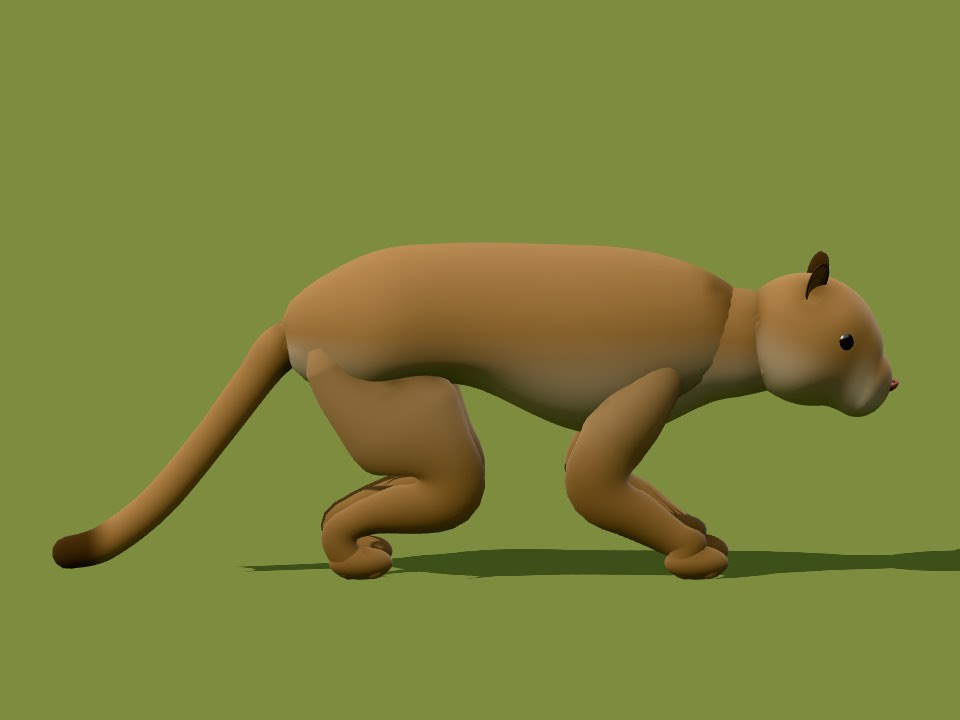
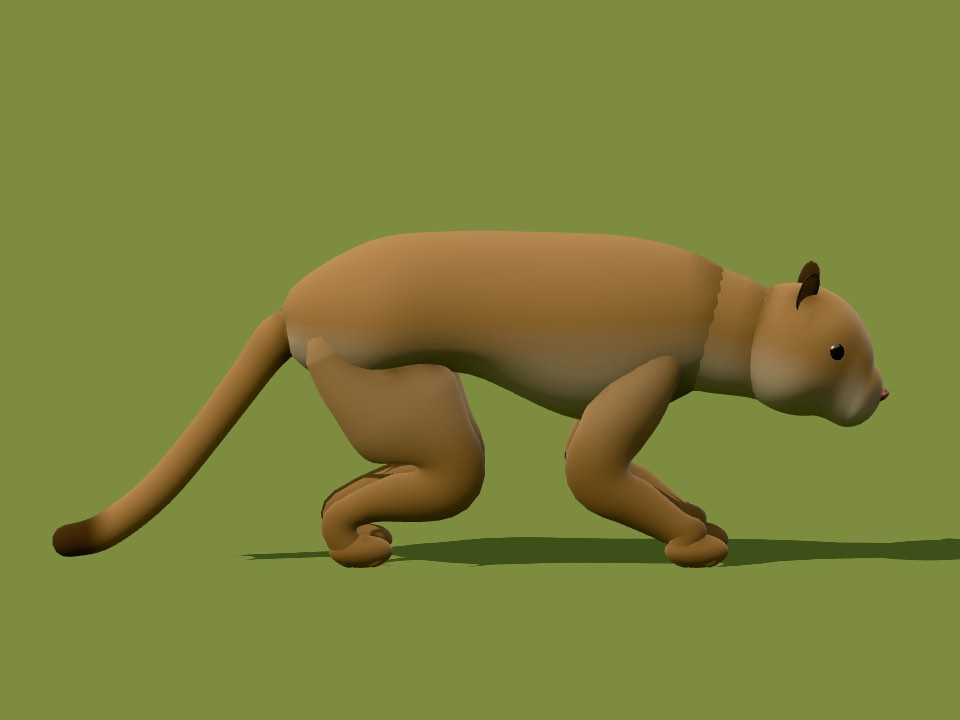
Cougar's original neck and head carriage back; when a head dips, the nod fades out behind its pivot so the neck's root stays in the shoulders (Cole)

diff --git a/js/render3d/animals/quadrupeds.js b/js/render3d/animals/quadrupeds.js
@@ -696,19 +696,12 @@ const MAMMALS = {
       legR1: H * (lion ? 0.085 : k ? 0.09 : s.cheetah ? 0.09 : plain ? 0.085 : 0.14), // (a plain cat's slim ankle under a full forearm and thigh)
       // (a plain cat: the hind thigh runs back into the rump, the legs taper to slim ankles over big paws)
       thighBack: plain ? H * 0.18 : 0, paw: plain ? 1.4 : 1, legSub: plain ? 8 : undefined, stifle: plain ? 0.72 : undefined, legSeg: plain ? 16 : undefined,
-      // (the round head's neck, from deep in the chest near where the head turns, so its top stays in the
-      // back when the head dips to stalk: deep and flattened side to side where it leaves the shoulders,
-      // narrowing up the throat, then widening into the back of the skull so the head sits on it, not a
-      // cylinder; [up, across] at each point. Cole 2026-11-27)
-      neckPath: plain && !fit ? [[L * 0.27, by + H * 0.02, 0], [L * 0.39, by + H * 0.17, 0], [L * 0.55 - H * 0.36 * 0.15, by + H * 0.26 - H * 0.33 * 0.15, 0]] : undefined,
-      neckRadii: plain && !fit ? [[H * 0.36, H * 0.27], [H * 0.27, H * 0.22], [H * 0.3, H * 0.27]] : undefined,
       neckR: H * (lion ? 0.25 : fit ? 0.23 : 0.3 - k * 0.02), jawDepth: fit ? 0.72 : undefined, skullUnder: fit ? 0.75 : undefined, // (a plain cat: a lean throat under a clean jaw) dots: s.cheetah ? [s.dark, 9, 0.2] : s.spotted ? [s.dark, 11, 0.21] : s.bobtail ? [shade(s.color, -0.4), 13, 0.16] : null, coatFine: s.bobtail ? false : undefined, rosettes: s.rosettes,
       coat, legColor, fine: s.clouds ? 2 : lion, detail: !!(lion || k || plain), legRings: legColor ? 8 : undefined,
       paws: true, toes: plain ? 4 : true, // soft, articulated paws
       // (a plain cat carries a slightly smaller head lower and a little further forward, the skull's top
       // about level with the back, as the photos show)
-      head: plain ? [L * 0.55, by + H * (fit ? 0.14 : 0.26)] : // (the round head carried higher, toward where the week-old one was: low, it hung below the shoulders as a hunch, Cole)
-         [L * 0.5, by + H * (lion ? 0.3 : 0.38 - k * 0.1)], headR: [H * (lion ? 0.34 : fit ? 0.33 : 0.36) * hs, H * (lion ? 0.31 : fit ? 0.3 : 0.33) * hs, H * (lion ? 0.32 : fit ? 0.24 : 0.34) * hs], snout: H * 0.15 * hs,
+      head: plain ? [L * 0.55, by + H * 0.14] :  [L * 0.5, by + H * (lion ? 0.3 : 0.38 - k * 0.1)], headR: [H * (lion ? 0.34 : fit ? 0.33 : 0.36) * hs, H * (lion ? 0.31 : fit ? 0.3 : 0.33) * hs, H * (lion ? 0.32 : fit ? 0.24 : 0.34) * hs], snout: H * 0.15 * hs,
       nose: lion || k || plain ? false : undefined, eyeR: lion ? H * 0.038 : plain ? H * 0.0525 : undefined, // (a plain cat's eyes a little bigger than the shared size, Cole 2026-11-27)
       // (crown: a cougar's skull is broad across the top with the ears at its corners; head on, the shared head was a pear)
       ears: lion ? 'none' : s.bobtail ? 'point' : 'round', ear: H * (s.bobtail ? 0.2 : k ? 0.18 : s.rosettes || s.cheetah ? 0.27 : s.clouds ? 0.22 : plain ? 0.185 : 0.24), earTurn: fit ? 0.6 : undefined, earUp: fit ? 0.55 : undefined, earSide: fit ? 0.82 : undefined, crown: fit ? 0.3 : undefined, cheeks: fit ? 0.32 : undefined, pads: fit ? 0.15 : undefined, cleft: fit ? 0.4 : undefined, muzzleTaper: fit ? 0.85 : undefined, muzzleBlend: fit ? 0.6 : undefined, bridge: fit ? 0.75 : undefined, earWidth: plain ? 1.08 : undefined, earInner: plain ? '#b58a6c' : undefined, earOut: 0.2, earBack: 0.1, earW: s.bobtail ? 0.55 : 0.45, tufts: s.bobtail, muzzle: fit ? plainFace(s, H, L, by).muzzle : grad(s.color, s.belly, 0.1, 0.4),

diff --git a/js/render3d/animals/animal-material.js b/js/render3d/animals/animal-material.js
@@ -606,7 +606,10 @@ export function faunaMaterial(motion) {
           p = aPivot + (p - aPivot) * flick;
         } else if (aPart > 7.5) {
           ${motion.billSweep ? 'float sweep = sin(ph * 1.6) * max(0.0, aAnim.w) * .45; p = rotY(p, aPivot, sweep); n = rotY(n, zero, sweep);' : ''}
-          p = rotZ(p, aPivot, -${motion.canopyFeet ? 'max(0.0, aAnim.w)' : 'aAnim.w'} * uHead); n = rotZ(n, zero, -${motion.canopyFeet ? 'max(0.0, aAnim.w)' : 'aAnim.w'} * uHead);
+          // (the turn fades out behind the pivot, so the neck's root, back in the shoulders, stays put
+          // instead of rising through the back when the head dips: the cougar's stalk, Cole 2026-11-27)
+          float nod = -${motion.canopyFeet ? 'max(0.0, aAnim.w)' : 'aAnim.w'} * uHead * smoothstep(aPivot.x - uLength * 0.12, aPivot.x + uLength * 0.02, p.x);
+          p = rotZ(p, aPivot, nod); n = rotZ(n, zero, nod);
         }
       }
     ` + shader.vertexShader

diff --git a/docs/decisions/0018-animal-close-up-shading.md b/docs/decisions/0018-animal-close-up-shading.md
@@ -19,6 +19,7 @@
 - The black-tailed deer (2026-11-26, aesthetics s7) was fitted the same way behind `slender: true` on its sprite (the deer builder also draws the elk, sambar and white-tailed deer, unchanged): `deerFace` markings, `deerEye`. New `quadruped()` options, all defaulting to the old look: `earFwd` (ear root along the skull), `noseSize`, `headSeg` (head rings only), `eyeFar` (a plain eye on the usual model, the painted one on the close-up), `flatBack` (a level back), `thighZ` (a narrower thigh top), `thighUp` (the thigh's top raised toward the tail), `thighTaper` (the thigh narrowing into the rump, no shelf); ear shape `deer` (pinched root); `earTurn` now also turns pointed ears. `col()` returns a shared cached colour: clone it before `lerp`.
 - Face marks and ridges laid on the head (2026-11-27, cougar face): `surfaceStrip(m, [m.headGeo], from, pts, o)` (`model-core.js`) casts from inside the head onto its built surface and lays a strip there whose edges take the surface's own colour and normal, fading out at both ends, so a brow ridge (`lift`), tear mark or mouth line (`strength` toward `color`) reads as fur, never as a piece stuck on; `surfacePatch` does the same for a round swelling (whisker pads). Use it instead of ellipsoids or tubes over the face. `m.headGeo` is the painted head loft. New `quadruped()` options, all defaulting to the old look: `browAt` (where the loft's brow ridge stands), `bridge` (how gently the forehead runs into the muzzle), `pads` (whisker pads swelling the muzzle's lower front; fades to nothing at the tip, which closes to a point), `earWidth` (round ears' width), `cleft`, `muzzleTaper`, `muzzleBlend`; body `haunchBulk`, `arch`, `shoulderTaper`, paws `pawH`, `pawW`, `toes: 4`.
 - Crouch (stalking, frozen): `foldLeg` (`animal-material.js`) folds each leg at the knee, halfway down from the hip, the upper leg less than the shin so elbows and knees stay apart and the paws plant wider (Cole: not "almost touching"); the paw turns back level about the ankle, the knee bends over a broad band, and the leg's top inside the body doesn't turn (2026-11-27). See it in the review page with `?pose=stalk`; run the motion sweep (`sunk`) after changing it.
+- Head dip (grazing, stalking): the head part's nod fades out behind its pivot (`nod`, animal-material.js), so a neck rooted back in the shoulders doesn't rise through the back (2026-11-27, the cougar).
 - Review: `http://localhost:8347/tools/animal-closeup-review.html` (`?bench=1`, `?model=close`, `map:key:male`), `node tools/animal-closeup-capture.mjs`. Cost: `?bench=1` and `play-profile` (`PLAY_VIEWS=closest`).
 
 ## History

diff --git a/docs/ideas/2026-11-27-cougar-face/README.md b/docs/ideas/2026-11-27-cougar-face/README.md
@@ -75,3 +75,8 @@ skull, so it leaves the body evenly all round and its top stays in the back when
 Then "shouldn't just be a cylinder": the neck's sections now go deep and flattened at the shoulders
 ([0.36, 0.27] H up/across), slimmer up the throat ([0.27, 0.22]) and widen into the back of the skull
 ([0.3, 0.27]), which it enters further. Intro film not re-filmed (Cole: film only when asked).
+
+Then Cole: it "looked best before you fixed the neck root". Back to the original neck and head carriage
+(by + 0.14 H), haunches and arch kept. The stalk fix moved to the animation: the head's nod fades out behind
+its pivot (`nod` in animal-material.js), so the neck's root stays in the shoulders when the head dips.
+Shared by every animal that lowers its head; motion sweep, all maps, within limits.
